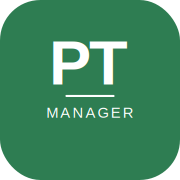
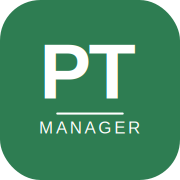
PT 로고 + 헤더 정리 + DatePicker 컴포넌트 + 시작일 컬럼

Changed region(s): [[0.2222, 0.2222, 0.7778, 0.5556], [0.2222, 0.5833, 0.7778, 0.75]]

diff --git a/src/WorkoutLog.js b/src/WorkoutLog.js
@@ -1,6 +1,7 @@
 import React from 'react'
 import { supabase } from './supabase'
 import { PARTS, PART_COLORS, S, THEME } from './utils'
+import DatePicker from './DatePicker'
 
 const CameraIcon = () => (
   <svg width="20" height="20" viewBox="0 0 24 24" fill="none" stroke="currentColor" strokeWidth="1.8" strokeLinecap="round">
@@ -204,11 +205,11 @@ export default function WorkoutLog({ user, selectedDate, setSelectedDate, exerci
       <div style={S.card}>
         <div style={{ display: 'flex', justifyContent: 'space-between', alignItems: 'center', marginBottom: '14px' }}>
           <p style={{ ...S.cardTitle, margin: 0 }}>운동 기록</p>
-          <input type="date" value={selectedDate} onChange={e => { setSelectedDate(e.target.value); loadExercises(user.id, e.target.value) }} style={S.dateInput} />
+          <DatePicker value={selectedDate} onChange={(d) => { setSelectedDate(d); loadExercises(user.id, d) }} />
         </div>
 
         {exercises.map((ex, exIdx) => (
-          <div key={exIdx} style={{ background: '#FAFAF7', border: `0.5px solid ${THEME.border}`, borderRadius: '12px', padding: '12px', marginBottom: '10px' }}>
+                  <div key={exIdx} style={{ background: '#FAFAF7', border: `0.5px solid ${THEME.border}`, borderRadius: '12px', padding: '12px', marginBottom: '10px' }}>
             {/* 1줄: 부위 / 운동명 / X */}
             <div style={{ display: 'grid', gridTemplateColumns: '70px 1fr 32px', gap: '6px', marginBottom: '7px' }}>
               <select style={inputBase} value={ex.body_part} onChange={e => updateExField(exIdx, 'body_part', e.target.value)}>
